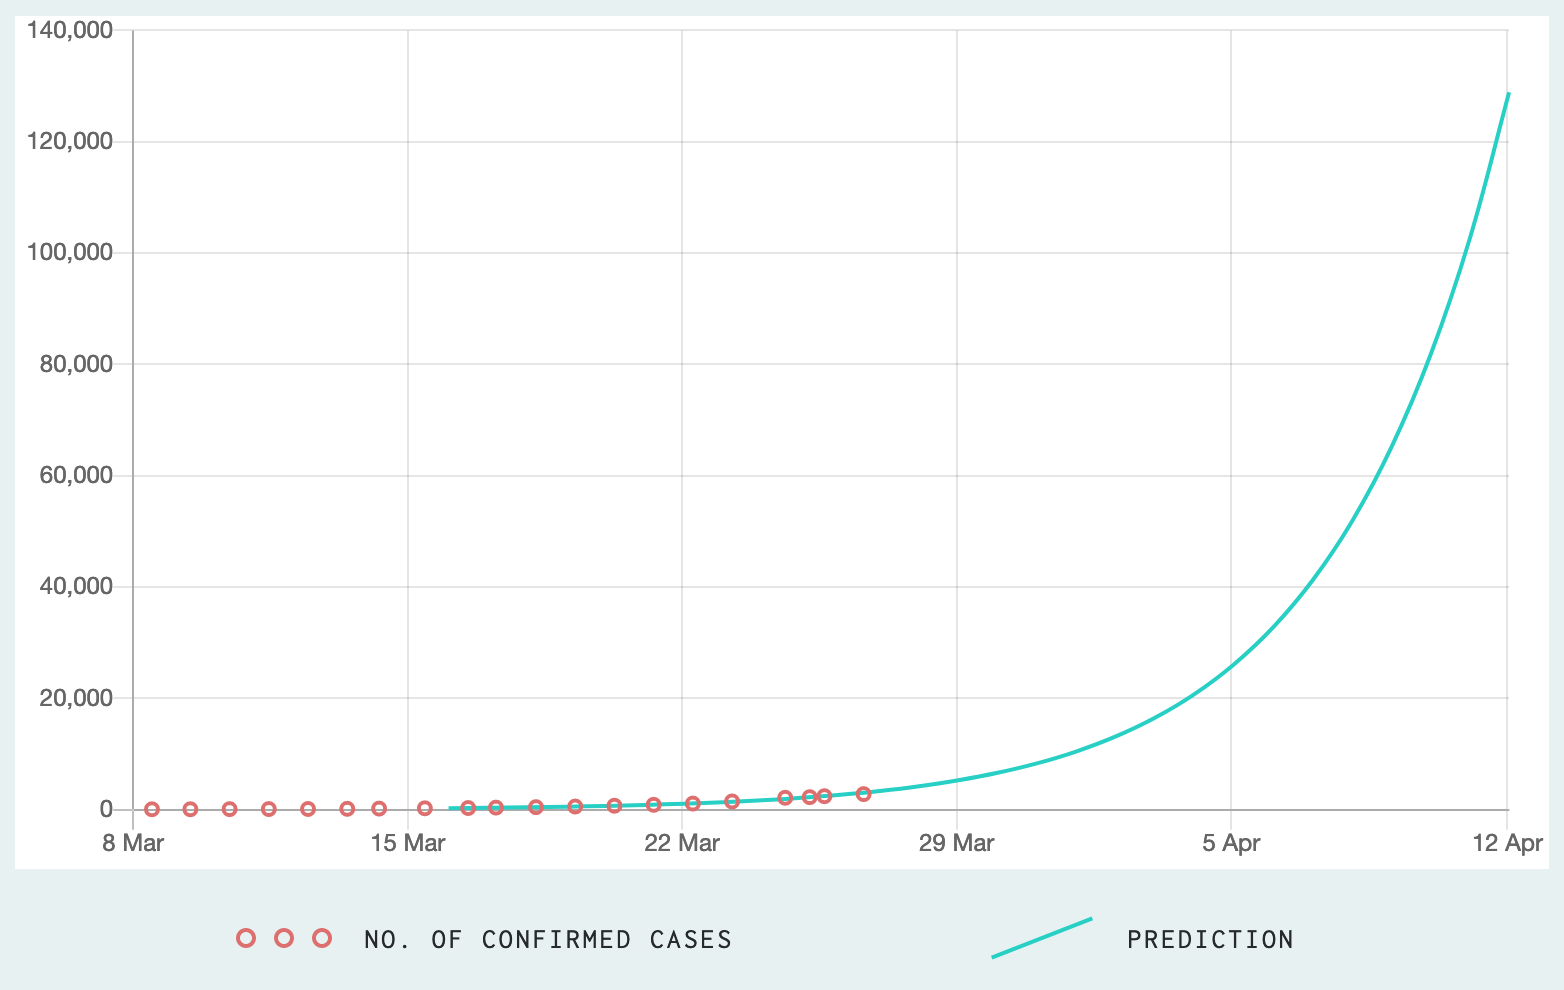
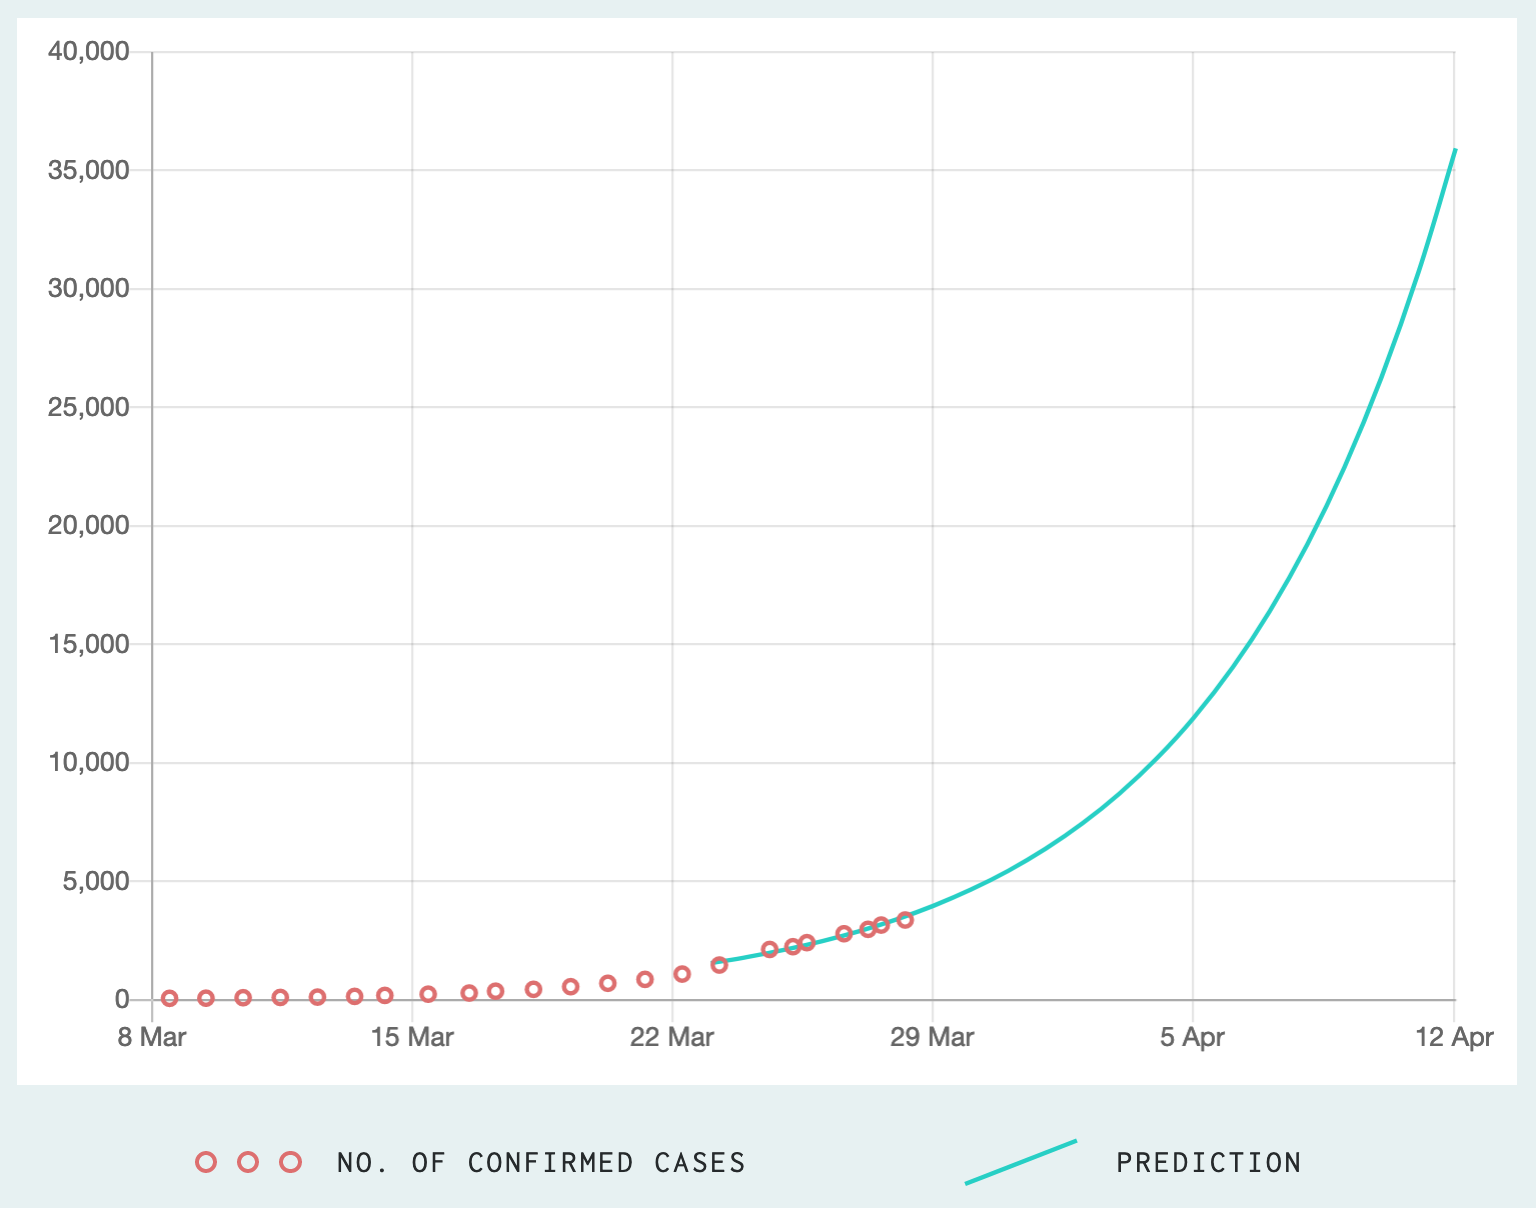
Update thumbnail

diff --git a/src/index.js b/src/index.js
@@ -9,7 +9,7 @@ const MILLI_PER_DAY = 1000 * 86400;
 const DISPLAY_START_DATE = '2020-03-08';
 const DEFAULT_PREDICT_END_DATE = '2020-04-12';
 const GRAPH_Y_MIN = 5;
-const GRAPH_Y_MAX = 45000;
+const GRAPH_Y_MAX = 40000;
 
 function calculateDoublingRate(stateData) {
   const normalData = normaliseData(stateData.rawDataset);
